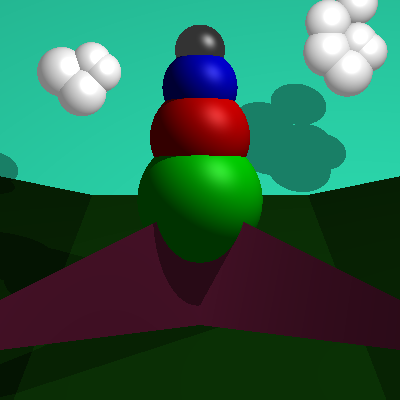
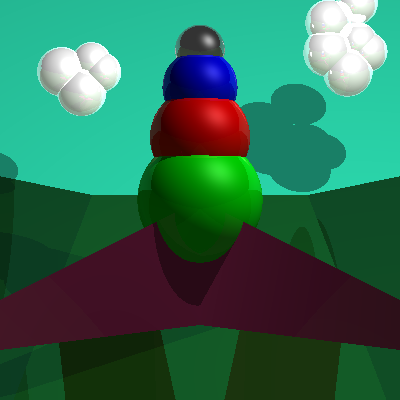
Implemented reflection and anti-aliasing

diff --git a/Code/scene.cpp b/Code/scene.cpp
@@ -25,7 +25,7 @@ Hit Scene::findMinHit(Ray const &ray, ObjectPtr* obj) {
     return min_hit;
 }
 
-Color Scene::trace(Ray const &ray)
+Color Scene::trace(Ray const &ray, bool specularOnly, int reflection)
 {
     // Find hit object and distance
     ObjectPtr obj = nullptr;
@@ -47,24 +47,56 @@ Color Scene::trace(Ray const &ray)
         Vector light = lights[i]->position - hit;
         Vector L = (light).normalized();
 
-        //if (shadows) {
-            // Check clear path to light source
+        bool castShadow = false;
+        if (shadows) {
             Ray lightRay(hit, L);
             Hit shadowHit = findMinHit(lightRay, &shadowObj);
-        //}
-        if (!shadows || shadowHit.t > light.length()) {
+            castShadow = shadowHit.t < light.length();
+        }
+
+        if (!castShadow) {
             Vector R = 2*(N.dot(L))*N - L;
             I_d += lights[i]->color * fmax(0, L.dot(N));
             I_s += lights[i]->color * pow(fmax(0, R.dot(V)), material.n);
         }
     }
+
+    if (reflection > 0) {
+        Vector O = 2*(N.dot(V))*N - V;
+        I_s += trace(Ray(hit, O), false, reflection-1);
+    }
+
     I_d *= material.kd;
     I_s *= material.ks;
 
 
     Color I = material.ka+I_d;
 
-    return I_s + (I * material.color);
+    return I_s + (specularOnly ? Triple(0,0,0) : I * material.color);
+}
+
+Color Scene::renderPixel(int x, int y, int w, int h) {
+    std::vector<Color> samples;
+
+    double base = 1/(double)(2*superSamplingFactor);
+    double step = 1/(double)superSamplingFactor;
+    for (int i = 1; i <= superSamplingFactor; i++) {
+        for (int j = 1; j <= superSamplingFactor; j++) {
+            Point samplePoint(x + base + i*step, h - 1 - y + base + j*step, 0);
+            Ray ray(eye, (samplePoint - eye).normalized());
+            Color col = trace(ray, false, recursionDepth);
+            col.clamp();
+            samples.push_back(col);
+        }
+    }
+
+    Color col(0,0,0);
+    for (int i = 0; i < samples.size(); i++) {
+        col += samples[i];
+    }
+    col /= samples.size();
+
+    return col;
 }
 
 void Scene::render(Image &img)
@@ -75,11 +107,7 @@ void Scene::render(Image &img)
     {
         for (unsigned x = 0; x < w; ++x)
         {
-            Point pixel(x + 0.5, h - 1 - y + 0.5, 0);
-            Ray ray(eye, (pixel - eye).normalized());
-            Color col = trace(ray);
-            col.clamp();
-            img(x, y) = col;
+            img(x, y) = renderPixel(x, y, w, h);
         }
         cout << y << " ";
         if ((y+1)%10 == 0) {
@@ -103,6 +131,21 @@ void Scene::addLight(Light const &light)
 void Scene::setEye(Triple const &position)
 {
     eye = position;
+}
+
+void Scene::setShadows(bool const &s)
+{
+    shadows = s;
+}
+
+void Scene::setRecursionDepth(int const &depth)
+{
+    recursionDepth = depth;
+}
+
+void Scene::setSuperSamplingFactor(int const &factor) 
+{
+    superSamplingFactor = factor;
 }
 
 unsigned Scene::getNumObject()

diff --git a/Code/scene.h b/Code/scene.h
@@ -16,21 +16,26 @@ class Scene
     std::vector<ObjectPtr> objects;
     std::vector<LightPtr> lights;   // no ptr needed, but kept for consistency
     Point eye;
-    bool shadows = true;
+    bool shadows = false;
+    int recursionDepth = 0;
+    int superSamplingFactor = 1;
 
     public:
 
         // trace a ray into the scene and return the color
-        Color trace(Ray const &ray);
+        Color trace(Ray const &ray, bool specularOnly, int reflection);
         Hit findMinHit(Ray const &ray, ObjectPtr* obj);
 
         // render the scene to the given image
         void render(Image &img);
-
+        Color renderPixel(int x, int y, int w, int h);
 
         void addObject(ObjectPtr obj);
         void addLight(Light const &light);
         void setEye(Triple const &position);
+        void setShadows(bool const &s);
+        void setRecursionDepth(int const &depth);
+        void setSuperSamplingFactor(int const &factor);
 
         unsigned getNumObject();
         unsigned getNumLights();

diff --git a/Code/raytracer.cpp b/Code/raytracer.cpp
@@ -138,7 +138,14 @@ try
     Point eye(jsonscene["Eye"]);
     scene.setEye(eye);
 
-    // TODO: add your other configuration settings here
+    bool shadows = jsonscene.value("Shadows", true);
+    scene.setShadows(shadows);
+
+    int reflections = jsonscene.value("MaxRecursionDepth", 0);
+    scene.setRecursionDepth(reflections);
+
+    int factor = jsonscene.value("SuperSamplingFactor", 1);
+    scene.setSuperSamplingFactor(factor);
 
     for (auto const &lightNode : jsonscene["Lights"])
         scene.addLight(parseLightNode(lightNode));
